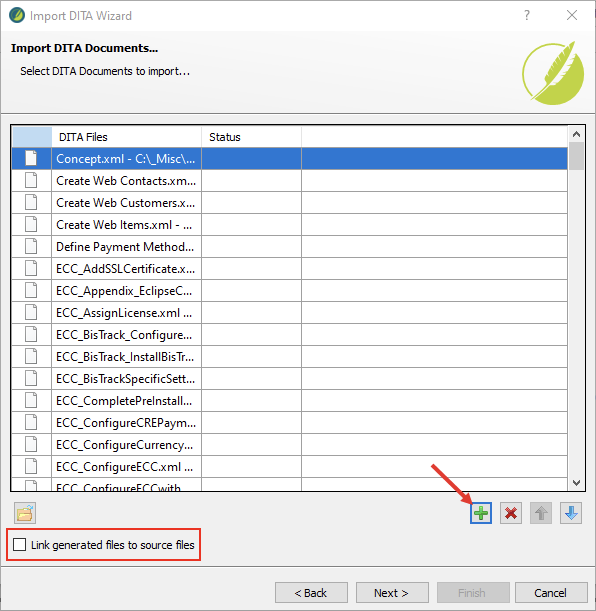
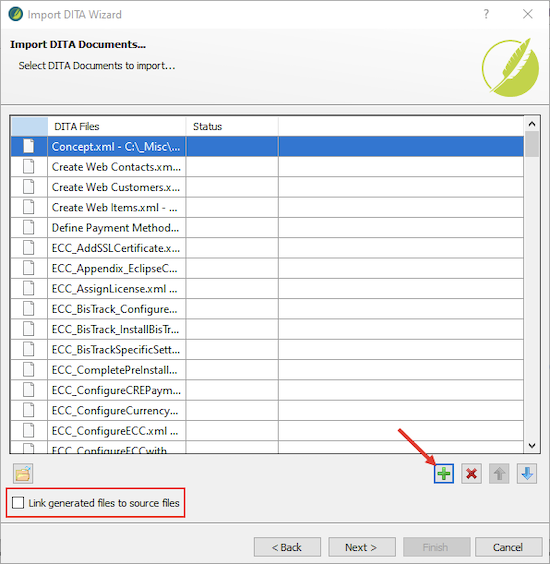
fixed the images in instructions

diff --git a/instructions.html b/instructions.html
@@ -112,7 +112,7 @@
       <ol>
         <li>Launch XMetal as Administrator and select <b>Repository > Open from Repository</b>.</li>
         <li><p>Right-click the folder you want to export and select <b>Export</b>.</p> 
-            <p><img src="assets/images/img_01_XMetalExport.png" width="20%" class="p-1 border"></p>
+            <p><img src="assets/images/img_01_XMetalExport.png" class="img-fluid img-thumbnail"></p>
         </li>
         <li>Select a folder for exported files on your machine and click <b>OK</b>. Wait while the application completes the process.</li>
       </ol>
@@ -123,20 +123,20 @@
       <ol>
         <li>Open your sandbox project in Flare. DO NOT import the files to projects connected to Git.</li>
         <li><p>On the <b>Project</b> tab, select <b>Import > DITA Document Set</b>.</p>
-            <p><img src="assets/images/img_02_ImportDitaDocSet.png" width="25%" class="p-1 border"></p>
+            <p><img src="assets/images/img_02_ImportDitaDocSet.png" class="img-fluid img-thumbnail"></p>
         </li>
         <li>Select the <b>Import into this project</b> option and click <b>Next</b>.</li>
         <li>In the Select DITA Documents to import dialog, click the <b>+</b> button and browse to the files exported from XMetal. Use <b>SHIFT+Click</b> to select multiple files.</li>
         <li><p>Clear the <b>Link generated files to source files</b> check box. Click <b>Next</b>.</p>
-          <p><img src="assets/images/img_03_SelectImportFiles.png" width="50%" class="p-1 border"></p>
+          <p><img src="assets/images/img_03_SelectImportFiles.png" class="img-fluid img-thumbnail"></p>
         </li>
         <li><p>In the Options dialog, keep the <b>Import all Content files to one folder</b> check box selected.</p>
-          <p><img src="assets/images/img_04_FlareImportOptions.png" width="25%" class="p-1 border"></p>
+          <p><img src="assets/images/img_04_FlareImportOptions.png" class="img-fluid img-thumbnail"></p>
         </li>
         <li>In the Stylesheet dialog, click <b>Conversion Styles</b>.</li>
         <li>In the DITA Import Styles Editor, the <b>Styles</b> pane displays the tags that may be part of you XMetal files. You need to adjust their markup properties for the application to convert the XML tags correctly.
           <p>For example, under <b>concept</b>, select <b>concept</b> and change the <b>XhtmlTag</b> value to <b>p</b>.</p>
-          <p><img src="assets/images/img_05_StyleConfig.png" width="50%" class="p-1 border"></p>
+          <p><img src="assets/images/img_05_StyleConfig.png" class="img-fluid img-thumbnail"></p>
           <p>The below table includes the list of the most used tags and the new markup properties that you should assign to them.</p>
           <table class="table table-bordered table-hover w-auto">
             <thead>
@@ -206,11 +206,11 @@
         <li>On the <b>Find Elements</b> tab, under <b>Find</b>, select <b>Tag</b> and in the field to the right, enter <b>span</b>.</li>
         <li>Under <b>Replace/Action</b>, select <b>Unbind Tag</b>.</li>
         <li><p>Under <b>Find in</b>, select <b>documents in the same folder</b> and then select <b>Replace All</b>.</p>
-          <p><img src="assets/images/img_06_UnbindSpan.png" width="40%" class="p-1 border"></p>
+          <p><img src="assets/images/img_06_UnbindSpan.png" class="img-fluid img-thumbnail"></p>
         </li>
         <li>Select the <b>Find Text</b> tab. Under <b>Find in</b>, select <b>documents in the same folder</b>.</li>
         <li><p>Under <b>Options</b>, select <b>Find in source code</b>.</p>
-          <p><img src="assets/images/img_07_ReplaceClasses.png" width="40%" class="p-1 border"></p>
+          <p><img src="assets/images/img_07_ReplaceClasses.png" class="img-fluid img-thumbnail"></p>
         </li>
         <li><p>Replace the following classes with a blank value (note, there’s a space before <b>class</b>):</p>
         <table class="table table-bordered table-hover w-auto">
@@ -281,7 +281,7 @@
         <li>Create a folder under <b>Content/Resources/Images</b> and copy the images imported from XMetal into it. If needed, add the necessary name prefixes.</li>
         <li>Open a file that includes any image using the <b>Text Editor</b> view and locate the image reference.</li>
         <li><p>Insert an image from the project folder into the file to see what the new reference should look like.</p>
-          <p><img src="assets/images/img_08_ImageLinks.png" width="80%" class="p-1 border"></p>
+          <p><img src="assets/images/img_08_ImageLinks.png" class="img-fluid img-thumbnail"></p>
         </li>
         <li>Copy the SharePoint path and use <b>Find and Replace</b> to change it to the new path.
         <p>For example, if you updated the image name prefixes, you may need to make the following replacement:</p>
@@ -294,7 +294,7 @@
         <li>Now you need to assign the standard class to the images. To do this for multiple images at once, go to <b>Find and Replace > Find Elements</b>.</li>
         <li>Under <b>Find</b>, select <b>Tag</b> and set it to <b>img</b>.</li>
         <li><p>Under <b>Replace/Action</b>, select <b>Add Class</b> and in the field to the right, enter <b>image-with-border</b>.</p>
-          <p><img src="assets/images/img_09_ImageStyle.png" width="40%" class="p-1 border"></p>
+          <p><img src="assets/images/img_09_ImageStyle.png" class="img-fluid img-thumbnail"></p>
         </li>
         <li>Verify <b>Find in</b> is set to documents in the same folder and select <b>Replace All</b>.</li>
       </ol>

diff --git a/copy.html b/copy.html
@@ -94,7 +94,7 @@
         <!-- Intro
 		============================ -->
       <h1 id="doctitle">Safeguard Your Online Business with SSL Certificates</h1>
-      <p><img src="assets/images/copy_ssl.png" width="80%" class="rounded-lg" alt="Information Security SSL Certificate"></p>
+      <p><img src="assets/images/copy_ssl.png" class="image-fluid rounded-lg" alt="Information Security SSL Certificate"></p>
       <p>As the world becomes increasingly digitalized, more and more organizations go online to give their customers and partners the freedom to work with their products and services anytime and anywhere. E-commerce stores and online marketplaces, internet banking, virtual schools, cloud applications, and many other online services make peoples’ and businesses’ lives more enjoyable, convenient, and efficient. However, with these benefits comes an increased risk of data breaches.</p>
 		  <p>If your organization provides modern-day online services, you likely deal with your customers’ and partners’ sensitive information such as personal details and bank card numbers, or business transactions and commercial data. Keeping this data secure and private is one of the crucial tasks in building long-term trusting relationships with your counterparts and gaining a good reputation in the industry. Well, sometimes this task may be challenging. When traveling over public networks, information may be vulnerable to cyber attacks that grow more elaborate every day. So how can you protect sensitive data from a breach?</p>
       <p>The most reliable way to establish a secure information exchange is to encrypt it. This is where the Transport Layer Security (TLS) protocol comes in. Using sophisticated cryptographic algorithms, TLS protects data sent over the internet, ensuring that it remains secure and private. </p>
